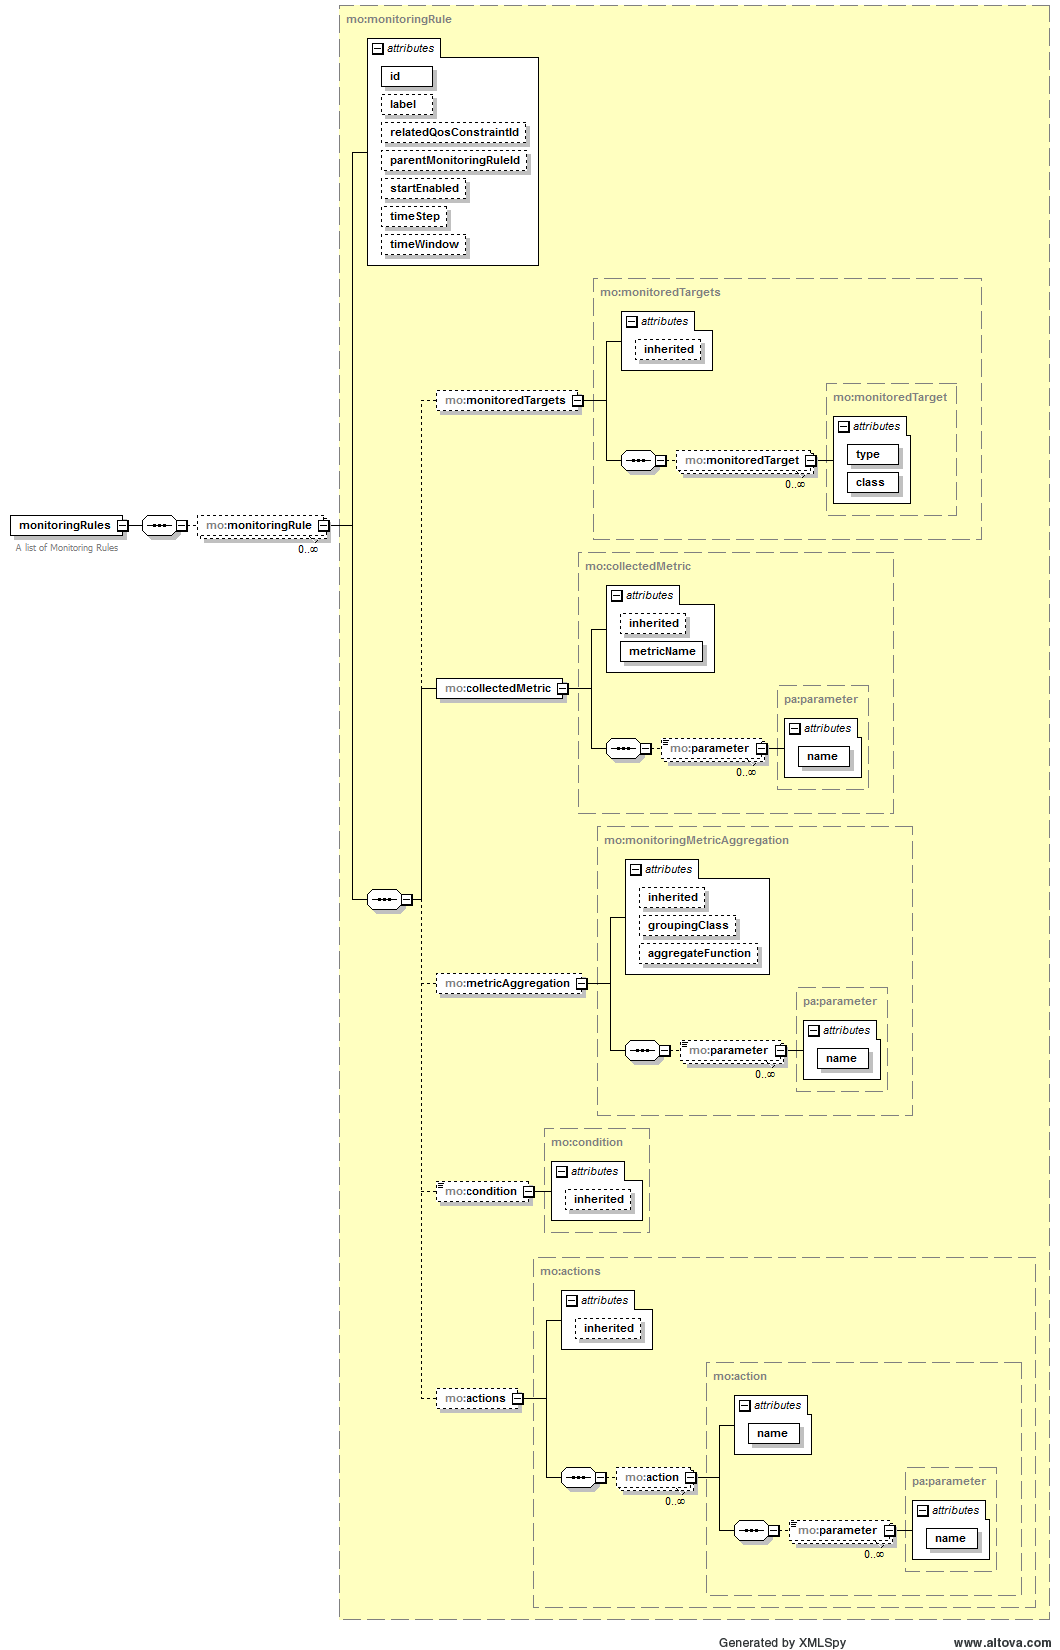
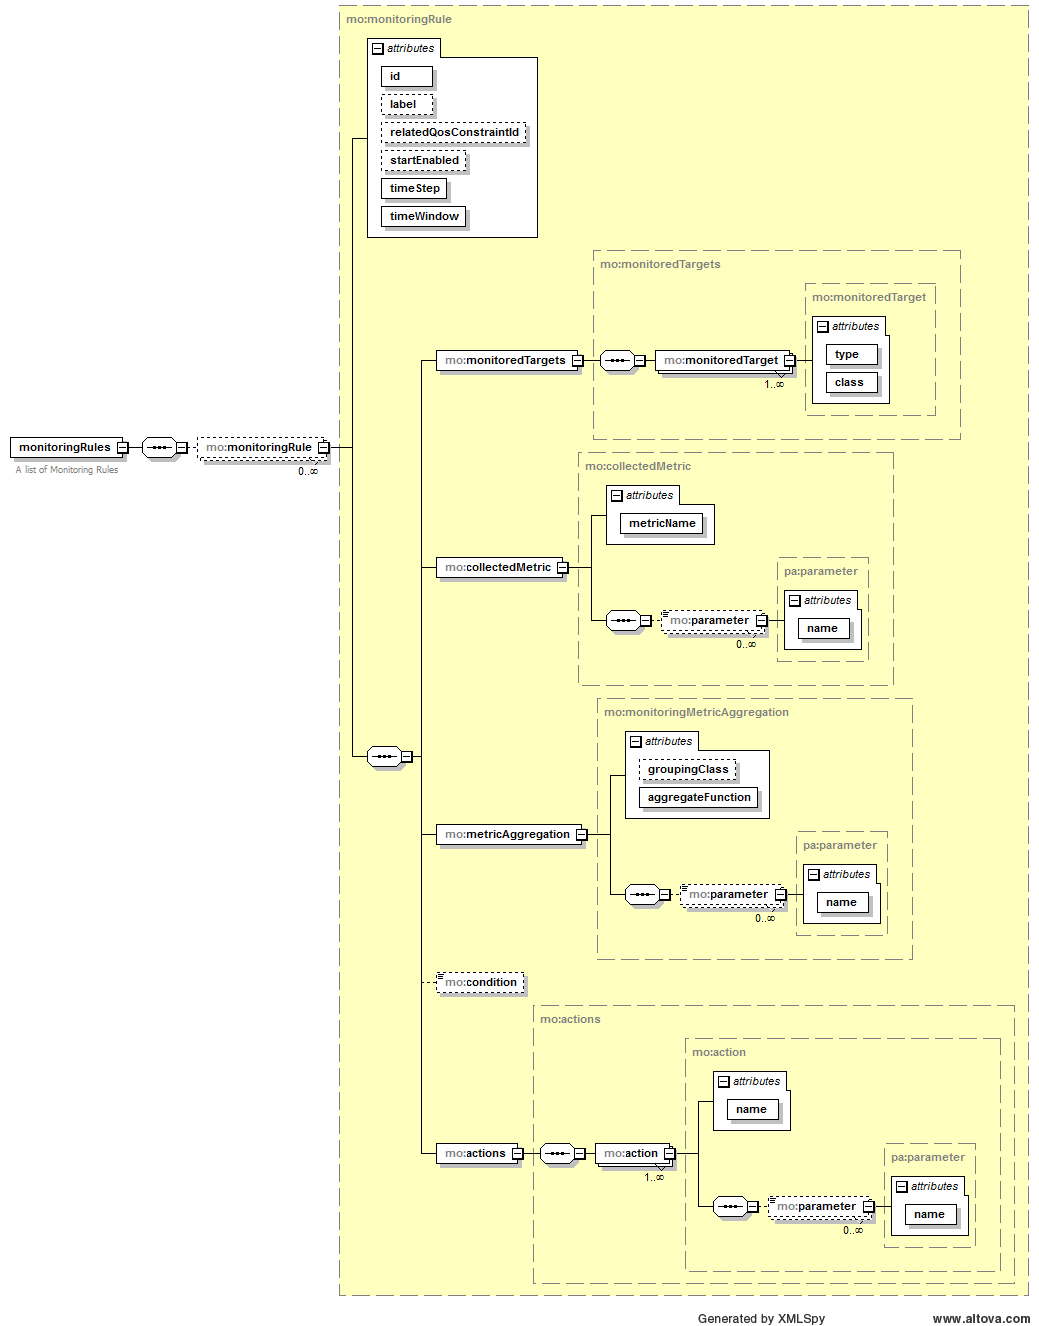
* doc updated * added required to fields after inheritance removal

Changed region(s): [[0.0, 0.0, 1.0, 1.0]]

diff --git a/doc/user-manual.md b/doc/user-manual.md
@@ -36,7 +36,6 @@ Here is a list of the attributes with a short description:
 - *timeWindow*: time range in seconds in which data should be considered to be aggregated at every time step
 - *startEnabled*: specifies whether the rule evaluation should start once installed
 - *relatedQosConstraintId*: if specified, identifies the id of the qos constraint from which the rule is generated
-- *parentMonitoringRuleId*: if specified, identifies the id of the parent monitoring rule
 - *condition*: the condition to be evaluated on the aggregated metric or, in case no aggregation is specified, on raw data
 - *actions*: the list of actions to be executed for each monitoring datum (produced by aggregation or raw datum).
 If a condition is specified the action is performed if and only if the condition is verified.
@@ -55,7 +54,6 @@ If a condition is specified the action is performed if and only if the condition
 <atom> ::= <var> <operator> <var> 
 		| `maxOccurrence(' <metric_id> `,' <int> `)'
 		| `minOccurrence(' <metric_id> `,' <int> `)'
-		| `parentCondition'
 		
 <var> ::= `METRIC' | <decimal>
 
@@ -66,7 +64,6 @@ If a condition is specified the action is performed if and only if the condition
 
 - <metric_id> in maxOccurrence and minOccurrence must refer to a *returnedMetric* of an existing monitoring
 rule executing action *OutputMetric*.
-- parentCondition can be used only if the monitoring rule whose condition is under evaluation has a parent rule
 
 ## Examples
 
